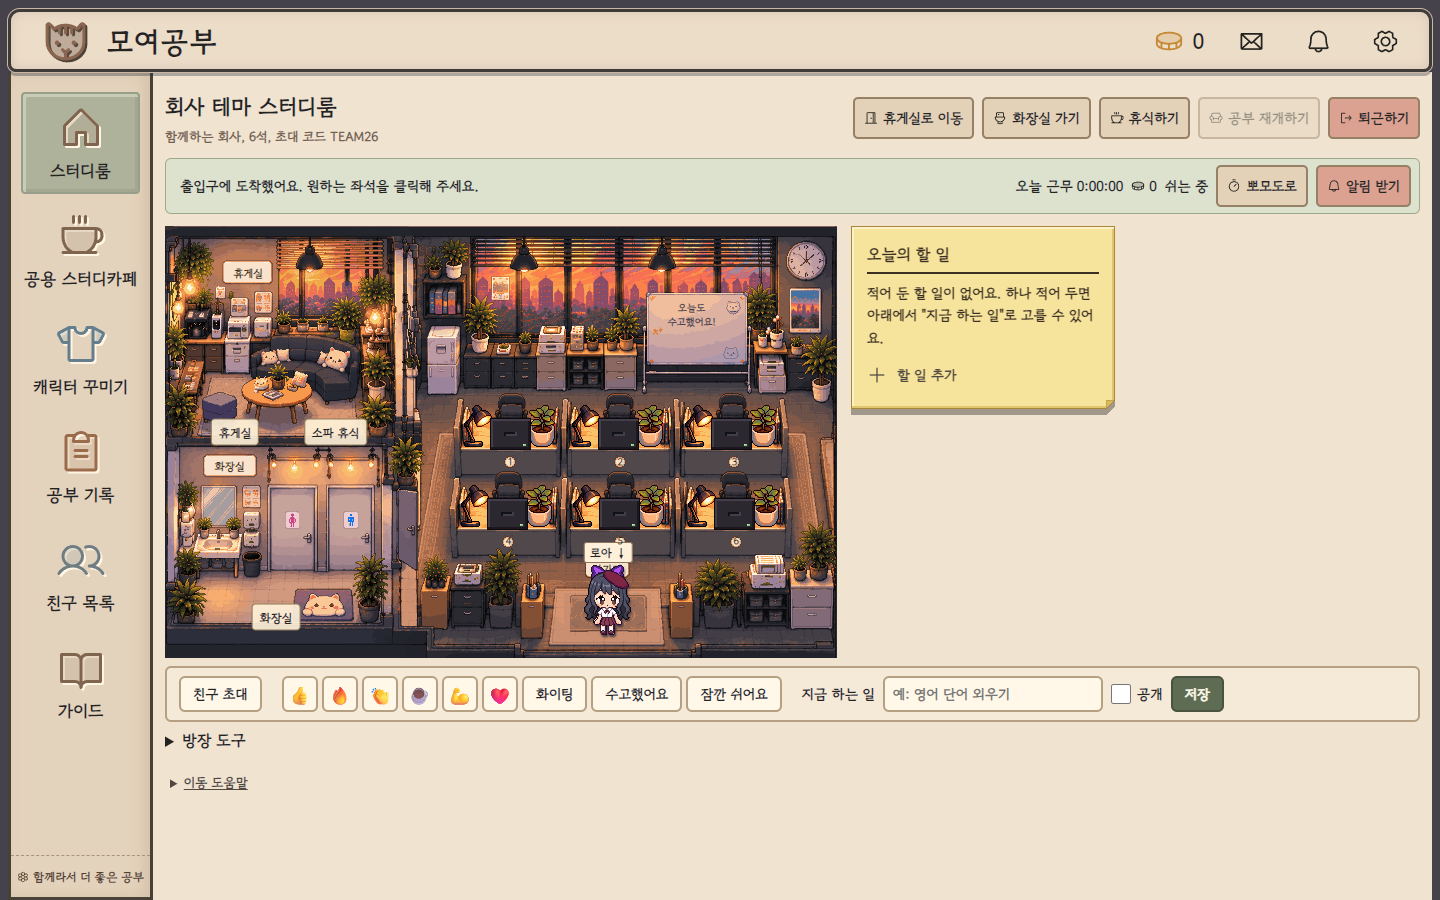
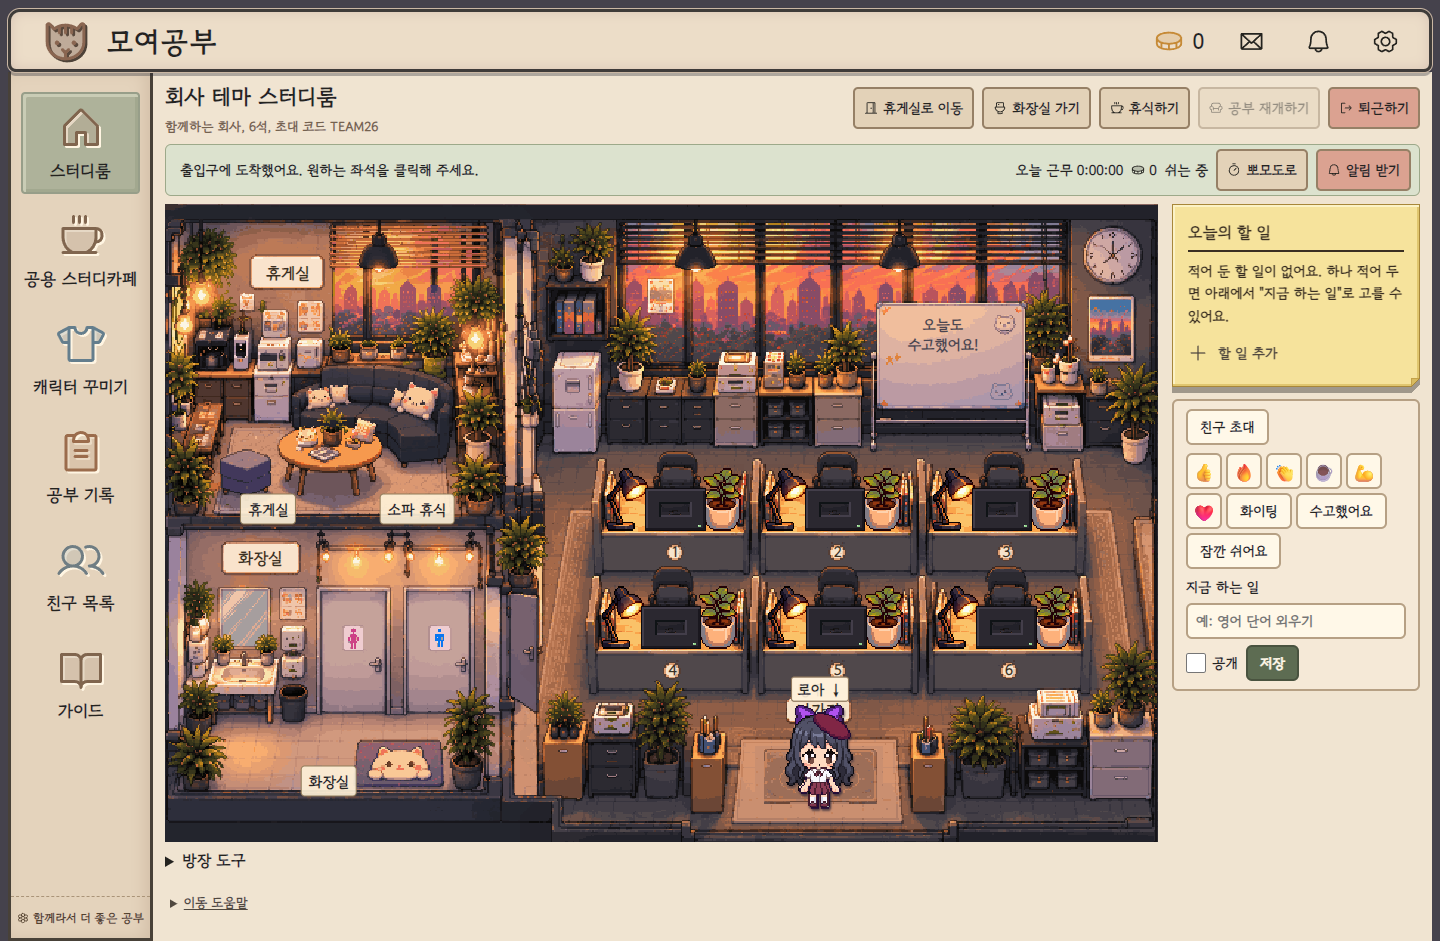
feat: company room fills the screen
The room was drawn at 1x (672x432) and took about a quarter of a
1920x1080 screen. The room now scales to the space left beside the side
column: an integer scale when 2x or more fits (2x at 1920x1080), and the
exact fit between 1x and 2x otherwise (about 1.48x at 1440x900). The user
chose fitting over an integer-only camera for smaller screens, so
AGENTS.md records the exception.

- roomScale and the bottom gap live in companyLayout.js; CompanyRoom
  measures the main row and the window and sets the viewport width.
- Painted signs, the whiteboard and seat circles scale with the room;
  name tags and area buttons grow by half the room scale.
- Todos, reactions and the current task move to the right column; owner
  tools stay below the room. Header spacing is tighter.
- movement-browser checks the character width against the room scale.

Story: production/epics/moyeogongbu/story-009-pixel-art.md
Design: design/game-brief.md (company room screen size)

Claude-Session: https://claude.ai/code/session_01HWhC6cZkHonntosa81JeUW

diff --git a/src/study/study.css b/src/study/study.css
@@ -99,8 +99,9 @@
   border-radius: 5px;
 }
 /* 회사 원본은 자르거나 늘리지 않고 3:2 비율 그대로 표시합니다. */
+/* 방이 화면을 채우도록 머리 부분은 촘촘하게 (1920×1080에서 방 2배가 들어간다) */
 .company-room {
-  padding: 18px 12px 25px;
+  padding: 8px 12px 25px;
   background: #f0e4d1;
   min-height: 100%;
 }
@@ -109,7 +110,7 @@
   align-items: center;
   justify-content: space-between;
   gap: 15px;
-  margin-bottom: 12px;
+  margin-bottom: 8px;
 }
 .company-toolbar h1 {
   font-size: 22px;
@@ -151,12 +152,12 @@
   align-items: center;
   justify-content: space-between;
   gap: 8px 16px;
-  padding: 6px 8px 6px 14px;
+  padding: 4px 8px 4px 14px;
   background: #dce2ce;
   border: 1px solid #9da98a;
   border-radius: 6px;
-  margin-bottom: 12px;
-  min-height: 48px;
+  margin-bottom: 8px;
+  min-height: 44px;
 }
 .movement-status {
   flex: 1 1 260px;
@@ -187,21 +188,26 @@
   isolation: isolate;
   overflow: hidden;
 }
-/* 무대와 오른쪽 열. 바깥 창(company-viewport)이 그림의 방 영역만 보여 준다 (companyLayout.view). */
+/* 무대와 오른쪽 열. 바깥 창(company-viewport)이 그림의 방 영역만 보여 준다 (companyLayout.view).
+   2026-11-02 사용자 결정: 방이 화면을 거의 다 채운다. 창 너비(그림 672px × 배율)는 CompanyRoom이 남는 공간을 재서 정한다. */
 .company-main {
   display: grid;
-  grid-template-columns: 672px minmax(208px, 264px);
+  grid-template-columns: max-content minmax(232px, 248px);
+  justify-content: center;
   gap: 14px;
   align-items: start;
 }
-/* 도트 방을 1배로 그리도록 창 너비를 그림 너비(672px)에 고정한다. */
 .company-viewport {
   position: relative;
-  width: 672px;
   overflow: hidden;
   background: #46454b;
+  /* 그림 위 화면 글자(이름표, 이동 단추, "내 자리")는 방 배율의 절반만큼 키운다 (2배 방에서 1.5배) */
+  --room-ui-scale: calc(1 + (var(--room-scale, 1) - 1) / 2);
 }
 .company-side {
+  display: flex;
+  flex-direction: column;
+  gap: 12px;
   min-width: 0;
 }
 /* 오른쪽 열 할 일: 로비 메모지와 같은 도트 종이 틀 (public/assets/lobby/memo-frame.png, 1배 9조각) */
@@ -273,12 +279,13 @@
   pointer-events: none;
 }
 /* 그림 속 빈 표지판과 화이트보드에 올린 글자. 캐릭터보다 뒤(벽)다. */
+/* 그림 속 표지판, 화이트보드, 좌석 번호 동그라미는 그림과 함께 커진다 (--room-scale). */
 .room-sign {
   position: absolute;
   z-index: 1;
   transform: translate(-50%, -50%);
   color: #3a2f22;
-  font-size: 11px;
+  font-size: calc(11px * var(--room-scale, 1));
   font-weight: 700;
   line-height: 1;
   white-space: pre;
@@ -287,7 +294,7 @@
 }
 .room-sign-board {
   color: #4a4550;
-  font-size: 10px;
+  font-size: calc(10px * var(--room-scale, 1));
   line-height: 1.4;
   text-align: center;
 }
@@ -329,7 +336,7 @@
   top: 50%;
   left: calc(100% + 3px);
   transform: translateY(-50%);
-  font-size: 10px;
+  font-size: calc(10px * var(--room-ui-scale, 1));
   line-height: 1.2;
   white-space: nowrap;
   background: #f7efd9;
@@ -374,7 +381,7 @@
   border-radius: 3px;
   padding: 1px 5px;
   white-space: nowrap;
-  font-size: 12px;
+  font-size: calc(12px * var(--room-ui-scale, 1));
 }
 .sprite-fallback {
   display: block;
@@ -422,7 +429,7 @@
   border-radius: 4px;
   background: #fff2d9e8;
   padding: 4px 7px;
-  font-size: 12px;
+  font-size: calc(12px * var(--room-ui-scale, 1));
   white-space: nowrap;
   pointer-events: auto;
 }
@@ -432,13 +439,13 @@
 
 /* 그림의 빈 동그라미(1배 12칸) 위에 번호 글자와 투명 클릭 영역을 겹칩니다. */
 .seat-marker.baked {
-  width: 14px;
-  height: 14px;
+  width: calc(14px * var(--room-scale, 1));
+  height: calc(14px * var(--room-scale, 1));
   background: transparent;
   border-color: transparent;
   box-shadow: none;
   color: #3a2f22;
-  font-size: 10px;
+  font-size: calc(10px * var(--room-scale, 1));
   font-weight: 700;
   line-height: 1;
 }
@@ -477,7 +484,7 @@
 }
 .study-character.activity-seated .character-name,
 .study-character.activity-sitting .character-name {
-  font-size: 12px;
+  font-size: calc(12px * var(--room-ui-scale, 1));
 }
 
 /* Story 004: 실시간 방 (다른 사람 캐릭터, 반응, 지금 하는 일, 방장 도구) */
@@ -543,6 +550,16 @@
 }
 .room-social button:disabled {
   opacity: 0.45;
+}
+/* 오른쪽 열(할 일 아래)에서는 줄 간격을 좁히고, 지금 하는 일 칸은 열 너비를 다 쓴다 */
+.company-side .room-social {
+  gap: 8px;
+  margin-top: 0;
+}
+.company-side .room-task #current-task {
+  flex: 1 1 100%;
+  width: auto;
+  min-width: 0;
 }
 /* 반응과 지금 하는 일이 초대 버튼과 같은 줄에서 흐르도록 감싼 상자는 자리를 차지하지 않는다 */
 .room-live-bar {

diff --git a/src/study/CompanyRoom.jsx b/src/study/CompanyRoom.jsx
@@ -1,4 +1,4 @@
-import { useState, useEffect, useRef } from "react";
+import { useState, useEffect, useLayoutEffect, useRef } from "react";
 import {
   Coffee,
   Armchair,
@@ -7,7 +7,7 @@ import {
   Toilet,
   ArrowLeft,
 } from "@phosphor-icons/react";
-import { COMPANY_ROOM_ART, artBox, companyLayout, foregroundClip, roomArtBox } from "./companyLayout";
+import { COMPANY_ROOM_ART, ROOM_ART_SIZE, ROOM_BOTTOM_GAP, artBox, companyLayout, foregroundClip, roomArtBox, roomScale } from "./companyLayout";
 import { useCharacterMovement } from "./useCharacterMovement";
 import CharacterSprite from "./CharacterSprite";
 import DeskSet from "./DeskSet";
@@ -34,10 +34,38 @@ const stageCropStyle = ({ image, view }) =>
     : {};
 
 /**
+ * 방 배율: 무대와 오른쪽 열이 들어가는 줄(main)의 너비에서 오른쪽 열을 빼고, 창 높이에서 방 윗변 위치와 아래 여백을 뺀 공간에
+ * 방 전체가 들어가는 배율 (`roomScale`). 창 크기나 줄 너비가 바뀌면 다시 잰다.
+ */
+function useRoomScale(mainRef, sideRef) {
+  const [scale, setScale] = useState(1);
+  useLayoutEffect(() => {
+    const main = mainRef.current;
+    if (!main) return;
+    const measure = () => {
+      const gap = parseFloat(getComputedStyle(main).columnGap) || 0;
+      const side = sideRef.current ? sideRef.current.getBoundingClientRect().width + gap : 0;
+      const top = main.getBoundingClientRect().top + window.scrollY;
+      setScale(roomScale(main.clientWidth - side, window.innerHeight - top - ROOM_BOTTOM_GAP));
+    };
+    measure();
+    const observer = new ResizeObserver(measure);
+    observer.observe(main);
+    window.addEventListener("resize", measure);
+    return () => {
+      observer.disconnect();
+      window.removeEventListener("resize", measure);
+    };
+  }, [mainRef, sideRef]);
+  return scale;
+}
+
+/**
  * 회사 스터디룸. `onActivityChange`는 캐릭터 동작이 바뀔 때마다 불리고(공부 세션 입력),
  * `renderSession`은 툴바 아래에 세션 표시를 그린다. 휴게실 이동은 사용자가 누를 때만 일어난다.
  * Story 004: 좌석은 `seatService`(서버 판정)가 정하고, 목적지를 정할 때마다 `onMove`, 멈출 때마다 `onSettle`이 불린다.
- * `overlay`는 무대 안(다른 사람 캐릭터), `toolbarExtra`(반응, 지금 하는 일, 방장 도구)는 무대 바로 아래, `localReaction`은 내 머리 위에 그린다.
+ * `overlay`는 무대 안(다른 사람 캐릭터), `side`(할 일, 반응, 지금 하는 일)는 무대 오른쪽 열, `toolbarExtra`(방장 도구)는 무대 아래,
+ * `localReaction`은 내 머리 위에 그린다. 무대는 남는 화면에 맞춰 키운다 (`roomScale`).
  * `side`는 무대 오른쪽 열(실제 할 일 등)에 그린다. 무대는 `companyLayout.view` 범위만 보이도록 바깥 창이 자른다.
  * @param {{ room: any, nickname: string, seatService: any, onExit: () => void, onActivityChange?: (activity: string) => void, onMove?: (move: { to: any, activity: string, seatId: number | null }) => void, onSettle?: (character: any) => void, overlay?: import("react").ReactNode, toolbarExtra?: import("react").ReactNode, localReaction?: import("react").ReactNode, look?: any, renderSession?: (actions: { goLounge: () => void, canGoLounge: boolean }) => import("react").ReactNode, side?: import("react").ReactNode }} props
  */
@@ -61,6 +89,9 @@ export default function CompanyRoom({
   const occupancy = useSeatOccupancy(seatService);
   const [pending, setPending] = useState(false);
   const pendingRef = useRef(false);
+  const mainRef = useRef(null);
+  const sideRef = useRef(null);
+  const scale = useRoomScale(mainRef, sideRef);
   const [floorTarget, setFloorTarget] = useState(null);
   const [selectedSeat, setSelectedSeat] = useState(null);
   const [error, setError] = useState("");
@@ -301,8 +332,12 @@ export default function CompanyRoom({
         </p>
         {renderSession?.({ goLounge: () => visit(lounge), canGoLounge })}
       </div>
-      <div className="company-main">
-      <div className="company-viewport" style={viewportStyle(companyLayout)}>
+      <div className="company-main" ref={mainRef}>
+      <div
+        className="company-viewport"
+        data-scale={scale}
+        style={{ ...viewportStyle(companyLayout), width: ROOM_ART_SIZE.width * scale, "--room-scale": scale }}
+      >
       <div
         className="company-stage"
         data-testid="company-stage"
@@ -449,7 +484,7 @@ export default function CompanyRoom({
         )}
       </div>
       </div>
-      {side && <aside className="company-side">{side}</aside>}
+      {side && <aside className="company-side" ref={sideRef}>{side}</aside>}
       </div>
       {toolbarExtra}
       {backgroundFailed && (

diff --git a/src/study/companyLayout.js b/src/study/companyLayout.js
@@ -2,8 +2,24 @@
 export const COMPANY_ORIGINAL = "/assets/company-study-room-final.png";
 export const COMPANY_BACKGROUND =
   "/assets/company-study-room-final-display.png";
-/** Story 009: 화면용 사본의 방 영역(view)을 절반으로 다시 그린 도트 방 672×432 (tools/art/company-room.mjs). 화면에 1배로 그린다. */
+/** Story 009: 화면용 사본의 방 영역(view)을 절반으로 다시 그린 도트 방 672×432 (tools/art/company-room.mjs). */
 export const COMPANY_ROOM_ART = "/assets/rooms/company-room.png";
+/** 도트 방 그림 크기 (1배). */
+export const ROOM_ART_SIZE = { width: 672, height: 432 };
+/** 방 아래에 남기는 여백 (화면 px). */
+export const ROOM_BOTTOM_GAP = 8;
+
+/**
+ * 방 배율 (2026-11-02 사용자 결정: 회사 방은 화면을 거의 다 채운다). 남는 공간에 방 전체가 들어가는 가장 큰 배율이다.
+ * 2배 이상 들어가면 도트가 고르도록 정수로 내리고, 1~2배 사이는 그 배율 그대로 꽉 채운다 (정수 배율 규칙의 예외).
+ * 1배보다 작게 줄이지는 않는다.
+ * @example roomScale(1100, 700) // 1.6203…
+ * @example roomScale(1500, 900) // 2
+ */
+export const roomScale = (availWidth, availHeight) => {
+  const fit = Math.min(availWidth / ROOM_ART_SIZE.width, availHeight / ROOM_ART_SIZE.height);
+  return fit >= 2 ? Math.floor(fit) : Math.max(1, fit);
+};
 export { companyFinalLayout as companyLayout } from "./companyFinalLayout.js";
 
 /**

diff --git a/src/features/rooms/view/CompanyRoomPage.tsx b/src/features/rooms/view/CompanyRoomPage.tsx
@@ -147,16 +147,16 @@ function LiveCompanyRoom({ room, userId, nickname, exit, toRooms }: LiveProps) {
             subscribeMoves={live.subscribeMoves}
           />
         ))}
-        toolbarExtra={
+        toolbarExtra={room.isOwner && <OwnerTools room={room} members={live.members} onChanged={live.notifyMembers} />}
+        side={
           <>
+            <RoomTodos />
             <div className="room-social">
               <RoomInviteButton room={room} />
               <RoomLiveBar connected={live.connected} sendReaction={live.sendReaction} onTaskSaved={live.notifyMembers} />
             </div>
-            {room.isOwner && <OwnerTools room={room} members={live.members} onChanged={live.notifyMembers} />}
           </>
         }
-        side={<RoomTodos />}
         renderSession={({ goLounge, canGoLounge }: { goLounge: () => void; canGoLounge: boolean }) => (
           <StudySessionBar session={session} onGoLounge={goLounge} canGoLounge={canGoLounge} todayCoins={coinsToday} />
         )}

diff --git a/AGENTS.md b/AGENTS.md
@@ -3,7 +3,7 @@
 - 제품 정의와 합의된 결정은 `design/game-brief.md`를 따릅니다.
 - 로비는 재설계 중입니다(2026-10-30 결정). 캐릭터는 꾸미기와 같은 레이어 부품으로 그리고, 배경 장면에는 캐릭터를 그려 넣지 않으며, 패널은 각각 독립 부품으로 나눕니다. 그 밖에 요청 범위 밖의 화면, 디자인, 기능은 변경하지 않습니다.
 - 회사 스터디룸의 구조, 가구 배치, 색감 기준은 사용자가 첨부한 최종 확정 회사 이미지입니다. 이 원본 파일은 바이트 변경 없이 보관하고 기준 자료로만 씁니다. 원본 확보 상태와 등록 절차는 `public/assets/rooms/README.md`를 확인합니다.
-- 화면에 쓰는 아트는 메이플스토리 수준의 2D 도트 스프라이트로 다시 그립니다. 원본 크기는 방 672×432(회사 원본에서 위쪽 제목줄과 오른쪽 가짜 앱 UI를 뺀 방 부분), 캐릭터 56×72, 가구와 소품 16픽셀 격자이고, 방과 캐릭터 모두 화면에 1배로 그립니다(확대가 필요하면 정수 배율만). 색 수 제한은 없습니다. 반투명 픽셀은 실루엣 가장자리(완전 투명 픽셀과 맞닿은 곳)에만 쓰고 안쪽은 불투명으로 둡니다. 생성 이미지나 자동 변환 결과를 손 보정 없이 쓰지 않습니다.
+- 화면에 쓰는 아트는 메이플스토리 수준의 2D 도트 스프라이트로 다시 그립니다. 원본 크기는 방 672×432(회사 원본에서 위쪽 제목줄과 오른쪽 가짜 앱 UI를 뺀 방 부분), 캐릭터 56×72, 가구와 소품 16픽셀 격자이고, 방과 캐릭터 모두 화면에 1배로 그립니다(확대가 필요하면 정수 배율만). 예외로 회사 방 화면은 남는 화면을 거의 다 채우게 키우고, 2배 이상 들어가면 정수 배율, 그보다 좁으면 1~2배 사이 배율 그대로 그립니다(2026-11-02 사용자 결정, `roomScale`). 색 수 제한은 없습니다. 반투명 픽셀은 실루엣 가장자리(완전 투명 픽셀과 맞닿은 곳)에만 쓰고 안쪽은 불투명으로 둡니다. 생성 이미지나 자동 변환 결과를 손 보정 없이 쓰지 않습니다.
 - 원본 기준에서 벗어나는 구조나 배치 변경이 필요하면 먼저 사용자에게 설명합니다. 새 도트 방이 준비될 때까지는 지금 회사 이미지를 계속 씁니다.
 - UI 문구에는 가운뎃점을 쓰지 않습니다. 기존 문구는 해당 화면을 작업할 때 줄바꿈, 쉼표, 별도 요소로 바꿉니다.
 - 기능 변경 후 `npm run build`와 실행 중인 개발 서버를 대상으로 `npm test`를 수행합니다. 현재는 로그인·DB·멀티플레이가 없는 프런트엔드 버전입니다.

diff --git a/design/game-brief.md b/design/game-brief.md
@@ -93,6 +93,7 @@ UI 문구에는 가운뎃점을 쓰지 않는다.
 - 캐릭터 레이어: 몸, 얼굴, 뒷머리, 앞머리, 의상, 액세서리.
 - 방 꾸미기는 슬롯 방식. 공용 공간 (벽, 창가, 휴게실)은 방장, 책상 위는 그 자리 주인. 남의 책상은 꾸밀 수 없고, 친구가 앉아 있으면 그 친구가 꾸민 책상이 보인다.
 - 회사 방 공용 꾸밈 (2026-11-01 사용자 결정): 방장이 휴게실 소파 쿠션, 탁자 위, 러그, 출입구 매트를 자기 코인으로 사서 갈아 끼우고, 화이트보드 문구(두 줄, 줄마다 12자)를 무료로 쓴다. 갈아 끼우는 자리는 그림에서 비웠고, 기본 아이템이 원래 그림과 같다. 자리와 가격은 `design/quick-specs/room-decor-slots.md` 2절.
+- 회사 방 화면 크기 (2026-11-02 사용자 결정): 방이 화면을 거의 다 채운다. 남는 공간에 2배 이상 들어가면 정수 배율(1920×1080에서 2배), 그보다 좁으면 1~2배 사이 배율로 꽉 채운다(1440×900에서 약 1.5배, 도트 크기가 칸마다 조금 다를 수 있음). 할 일, 반응, 지금 하는 일은 방 오른쪽 열, 방장 도구는 방 아래다.
 - 책상 꾸밈은 사람을 따라다니는 "내 책상 세트"다 (슬롯 4개). 어느 회사 방 어느 자리에 앉든 내 세트가 펼쳐지고, 빈 자리는 기본 책상이다. 내 방 책상에도 같은 세트가 놓인다 (2026-10-31 결정).
 - 로비(집, 내 방)에도 꾸미기 슬롯을 둔다. 소품(커튼, 액자, 벽 선반, 이불, 러그, 화분, 스탠드, 침대 고양이)뿐 아니라 가구(책상, 안락의자, 침대 틀, 협탁)와 벽지, 바닥도 바꿀 수 있다 (2026-10-31 결정, 2026-11-01 구현: 열여섯 자리, 지금 그림이 무료 기본이고 판매 아이템은 내 방 소품 240~600, 가구와 벽지, 바닥 900~1500코인. 내 방 책상은 회사 책상 세트와 따로 꾸민다). 2026-11-02 결정: 꾸밈 아이템 그림에는 그 물건 픽셀만 넣고(아래 가구, 벽, 바닥 금지), 판매 아이템은 브라운, 화이트, 블랙, 앤티크 테마로 묶어 조합하며 테마 한 번에 놓기를 둔다. 혼자 튀는 파스텔 아이템은 판매를 멈추고(산 사람은 계속 사용), 바닥에 데코타일, 대리석, 파케이를 더한다. 회사 방 휴게실 러그도 같은 테마다. 내 방은 사용자가 고른 포근한 시안 구성의 256×152 도트 방이고, 캐릭터와 함께 3배로 보인다. 슬롯 위치와 그림 요구사항은 `design/quick-specs/room-decor-slots.md`.
 

diff --git a/production/qa/evidence/story-009-pixel-art-evidence.md b/production/qa/evidence/story-009-pixel-art-evidence.md
@@ -45,6 +45,16 @@
 | 휴게실 테마 러그, 물건 칸만 뗀 기본 쿠션, 탁자 위, 매트 | `room-decor-themed-rugs.png`, `room-decor-member.png`, `room-decor-owner-tools.png`, 테스트 `room-decor` |
 | 안내 문장 지우기, 탭 한 줄 | Story 007 증거 `customize-try-on.png` |
 
+## 회사 방이 화면을 채운다 (2026-11-02, 사용자 결정)
+
+남는 화면에 방 전체가 들어가는 배율로 그린다. 2배 이상이면 정수(선명), 그보다 좁으면 1~2배 사이 배율 그대로 (`roomScale`, AGENTS.md 예외).
+할 일, 반응, 지금 하는 일은 방 오른쪽 열로 옮겼다.
+
+| 화면 | 증거 |
+|---|---|
+| 1920×1080: 정확히 2배 (1344×864) | `room-fill-1920x1080.png` |
+| 1440×900: 약 1.48배 (993×638) | `room-fill-1440x900.png`, 테스트 `movement-browser`(캐릭터 폭 = 56 × 방 배율), `seat-sides-browser` |
+
 ## 알려진 한계
 
 - 긴소매 옷(후드티, 가디건, 정장)의 옆모습 팔은 옷 그림의 팔을 그대로 쓴다 (팔 흔들림이 몸 그림보다 작다).
